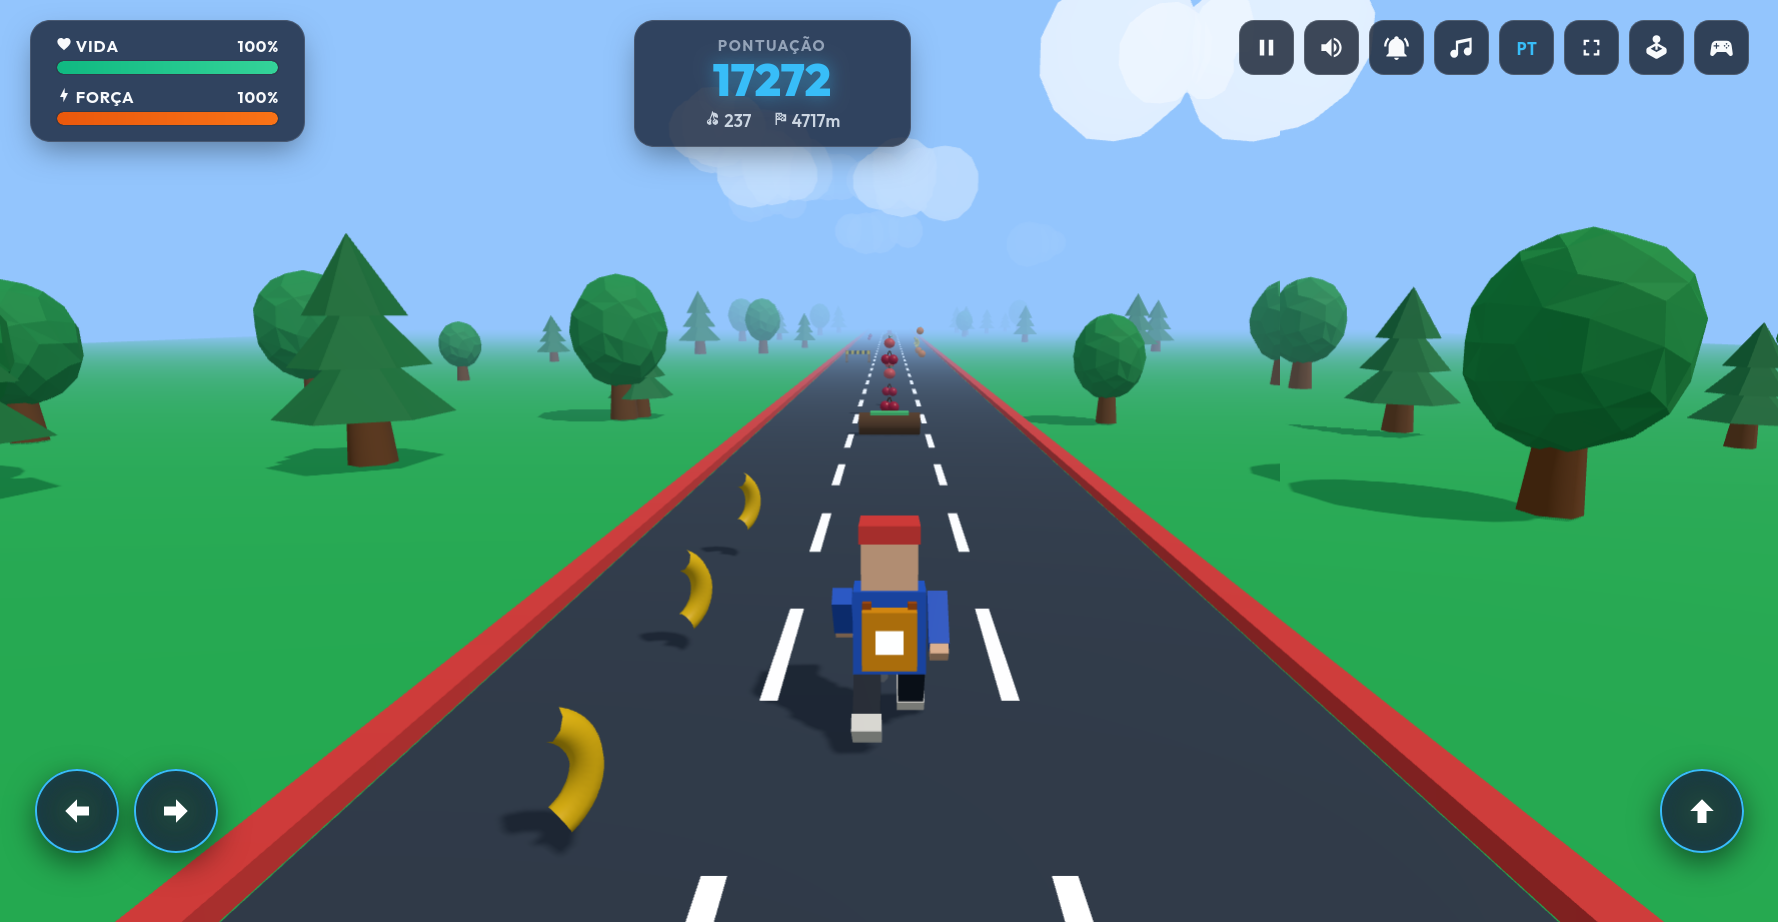
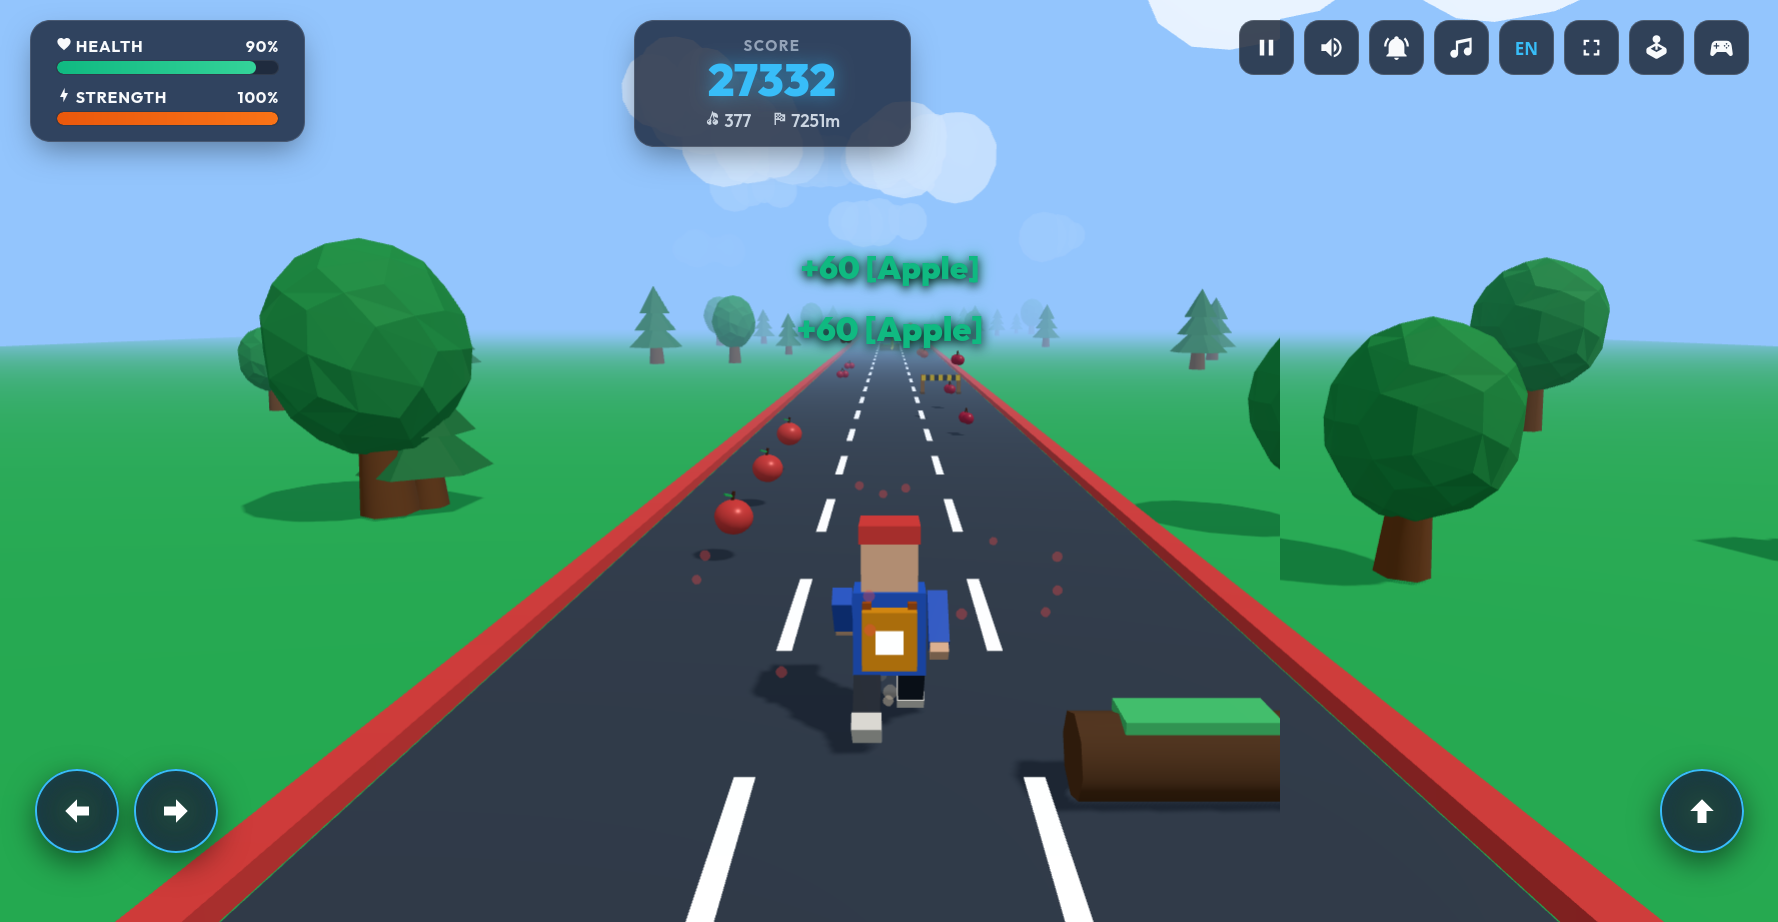
docs: adicionar link para live demo e screenshots localizados nos READMEs

diff --git a/README.pt-br.md b/README.pt-br.md
@@ -2,7 +2,9 @@
 
 🇧🇷 Versão em Português | [🇺🇸 English Version](README.md)
 
-![Endless Runner 3D Captura de Tela](./screenshot.png)
+🎮 **Teste Online (Live Demo)**: [https://endless-runner-game-delta.vercel.app/](https://endless-runner-game-delta.vercel.app/)
+
+![Endless Runner 3D Captura de Tela](./screenshot.pt-br.png)
 
 Um jogo 3D **Endless Runner** vibrante, fluido e completo desenvolvido em **JavaScript puro (Vanilla JS)** com **Three.js**, **Vite** e **Iconify** (100% modular e agnóstico, sem dependência de React ou outros frameworks pesados).
 
@@ -142,6 +144,8 @@ Todas as preferências do usuário são salvas automaticamente:
 
 ## 🚀 Como Executar Localmente
 
+> **Experimente no navegador**: Você pode testar e jogar diretamente sem precisar instalar nada através de [endless-runner-game-delta.vercel.app](https://endless-runner-game-delta.vercel.app/).
+
 ### Pré-requisitos
 - **Node.js** (versão 18 ou superior)
 - **npm** ou **yarn** / **pnpm**
@@ -190,7 +194,8 @@ jogo-threejs-joystick/
 ├── AGENTS.md                   # Diretrizes técnicas para agentes de IA e desenvolvedores
 ├── package.json                # Configuração do projeto e dependências
 ├── vite.config.js              # Configuração do Vite
-├── screenshot.png              # Captura de tela do jogo em ação UI
+├── screenshot.png              # Captura de tela do jogo (HUD em inglês)
+├── screenshot.pt-br.png        # Captura de tela do jogo (HUD em português)
 ├── src/
 │   ├── main.js                 # Ponto de entrada, inicialização do jogo e UI
 │   ├── style.css               # Estilos com glassmorphism, HUD e controles

diff --git a/README.md b/README.md
@@ -190,7 +190,8 @@ jogo-threejs-joystick/
 ├── README.md                   # English documentation (default)
 ├── README.pt-br.md             # Portuguese documentation
 ├── AGENTS.md                   # Technical guidelines for AI agents & contributors
-├── screenshot.png              # In-game gameplay screenshot
+├── screenshot.png              # In-game gameplay screenshot (English HUD)
+├── screenshot.pt-br.png        # In-game gameplay screenshot (Portuguese HUD)
 ├── src/
 │   ├── main.js                 # Entry point, game and UI bootstrap
 │   ├── style.css               # Styling, glassmorphism, responsive HUD, and touch controls
